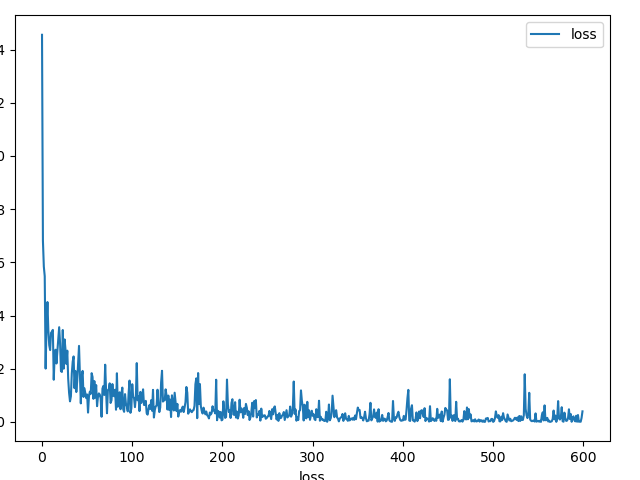
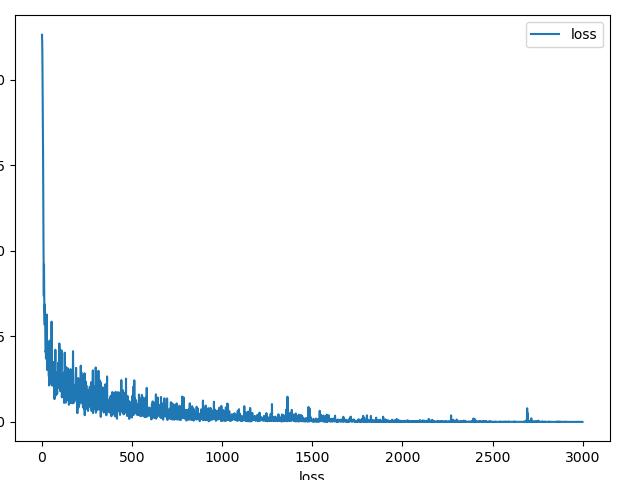
added confusion matrix output

diff --git a/main.py b/main.py
@@ -4,6 +4,7 @@ import matplotlib.pyplot as plt
 from util import logMessage
 from neuralNet import NeuralNet
 import torch.nn as nn
+from sklearn.metrics import confusion_matrix
 
 """
 input: Hyperparameters thsat will define the loader batch sizes, ie: how many
@@ -41,10 +42,10 @@ def plotExample(data, truth):
 def main():
 
     # Init our training hyperparameters
-    n_epochs = 10
+    n_epochs = 50
     train_batch_size = 100
     test_batch_size = 1000
-    learning_rate = 1e-3
+    learning_rate = 1e-4
 
     # Set device to GPU if possible
     device = torch.device('cuda' if torch.cuda.is_available() else 'cpu')
@@ -72,7 +73,7 @@ def main():
 
     # Array of loss history
     loss_history = []
-    steps = [i for i in range(6000//10)]
+    steps = [i for i in range((6000//train_batch_size) * n_epochs)]
 
     # Train the model
     n_total_steps = len(train_loader)
@@ -122,6 +123,11 @@ def main():
                 acc = n_correct / n_samples
                 print(f'Accuracy of the network on the {n_samples} test images: {100*acc} %')
                 break
+
+        pred = predicted.cpu()
+        labs = labels.cpu()
+
+        print(confusion_matrix(pred, labs, labels=[0,1,2,3,4,5,6,7,8,9]))
 
         # Plot and save loss.
         plt.clf()
